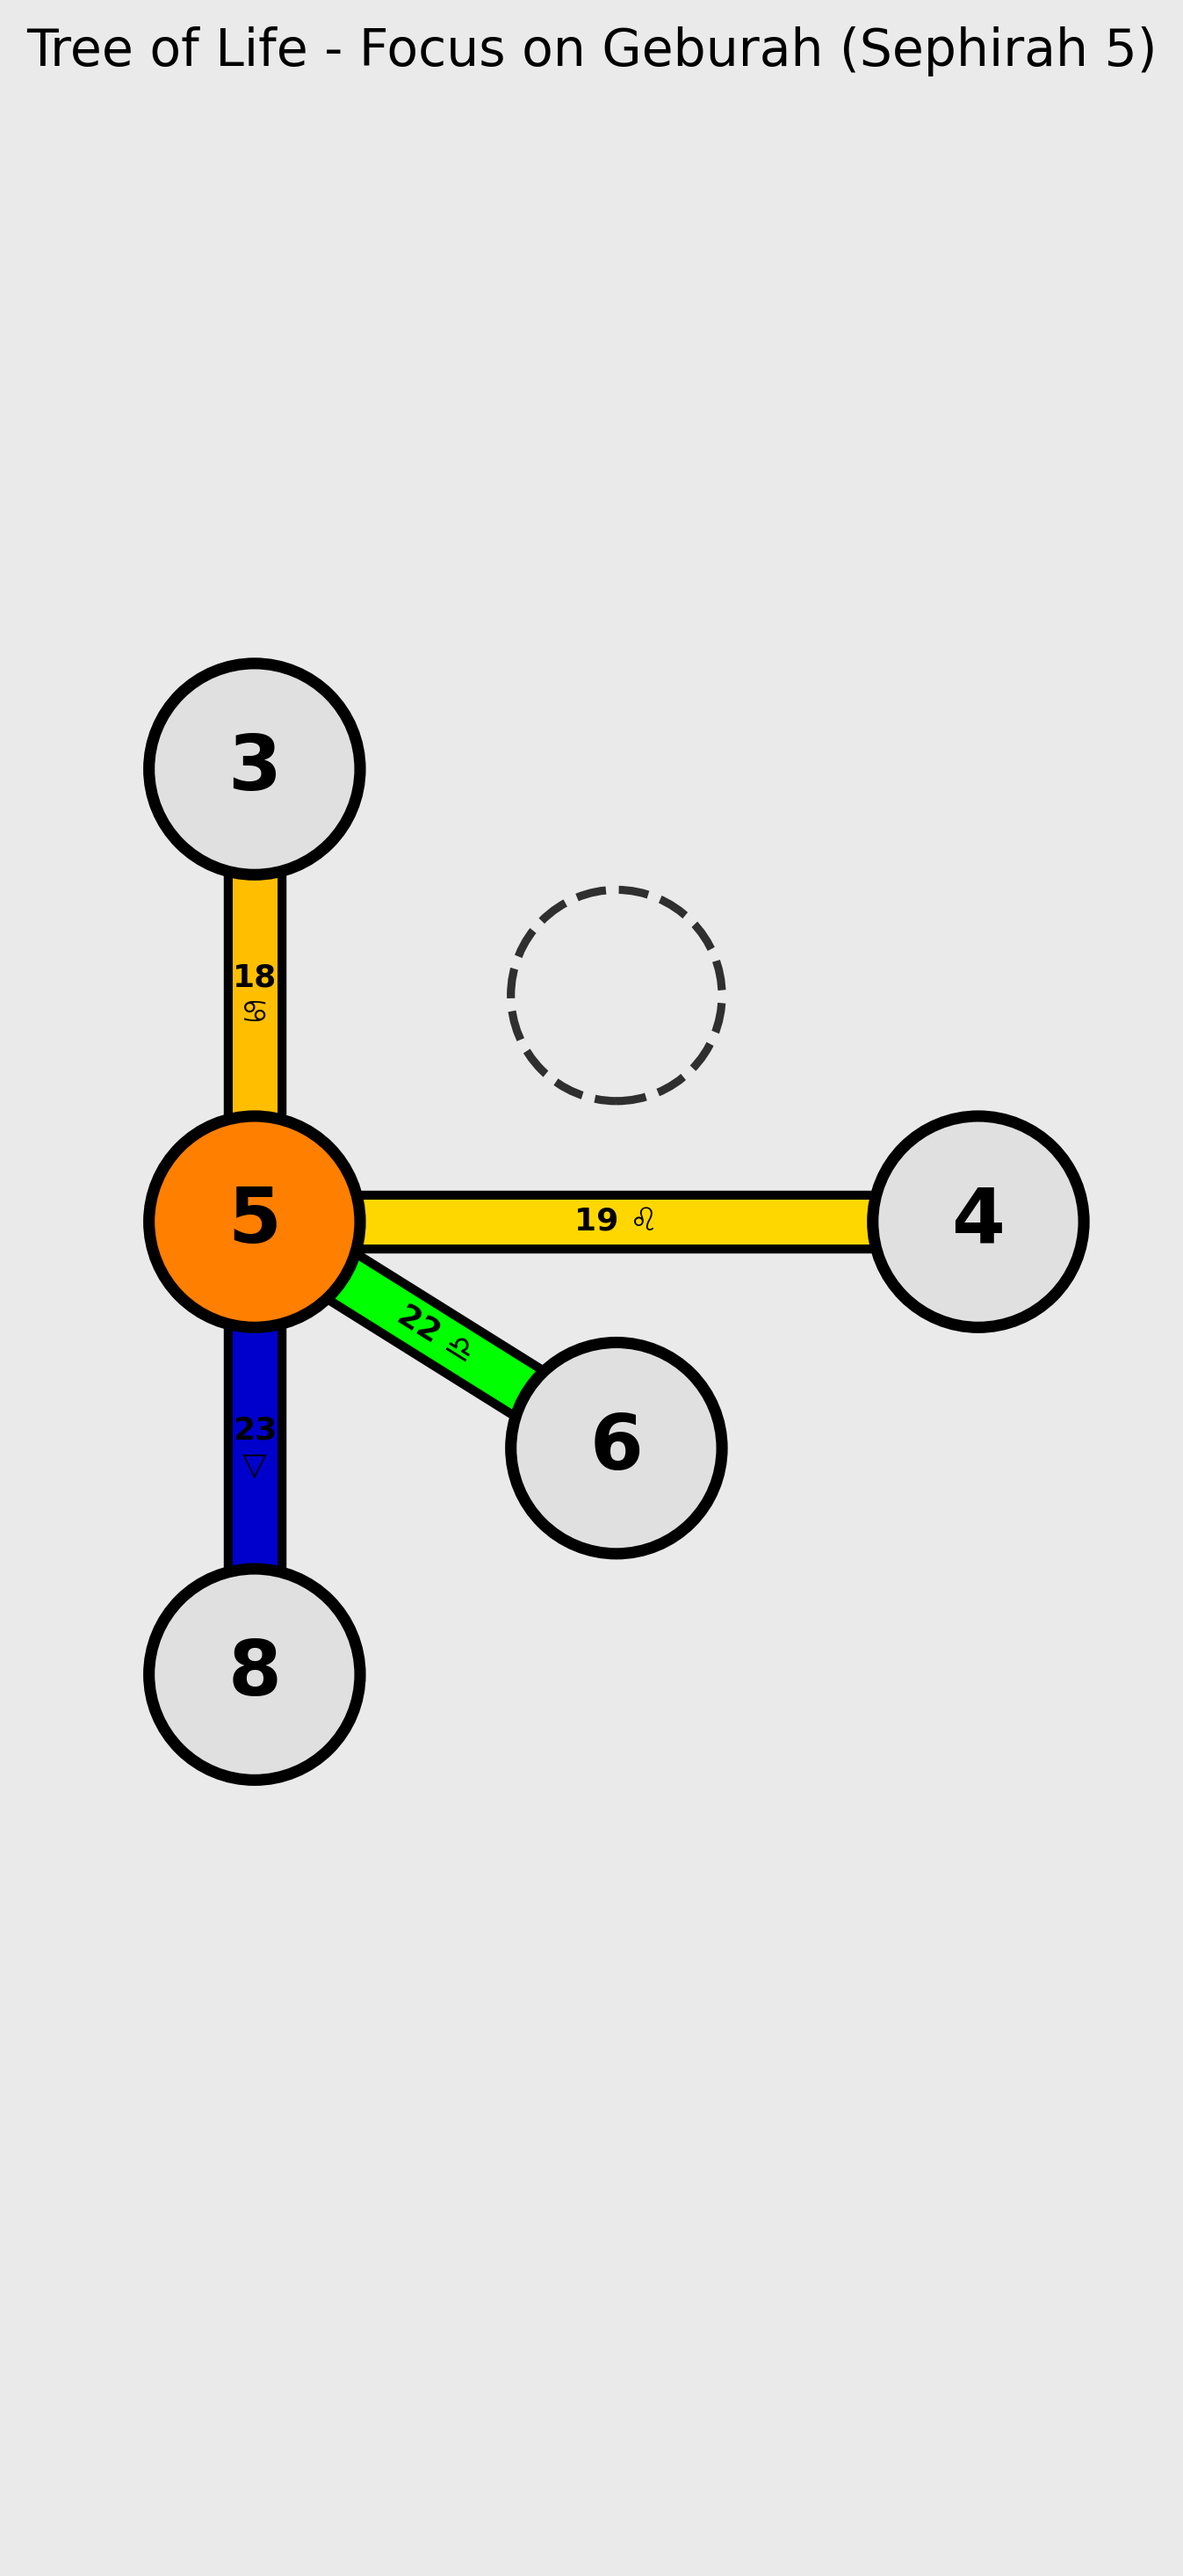
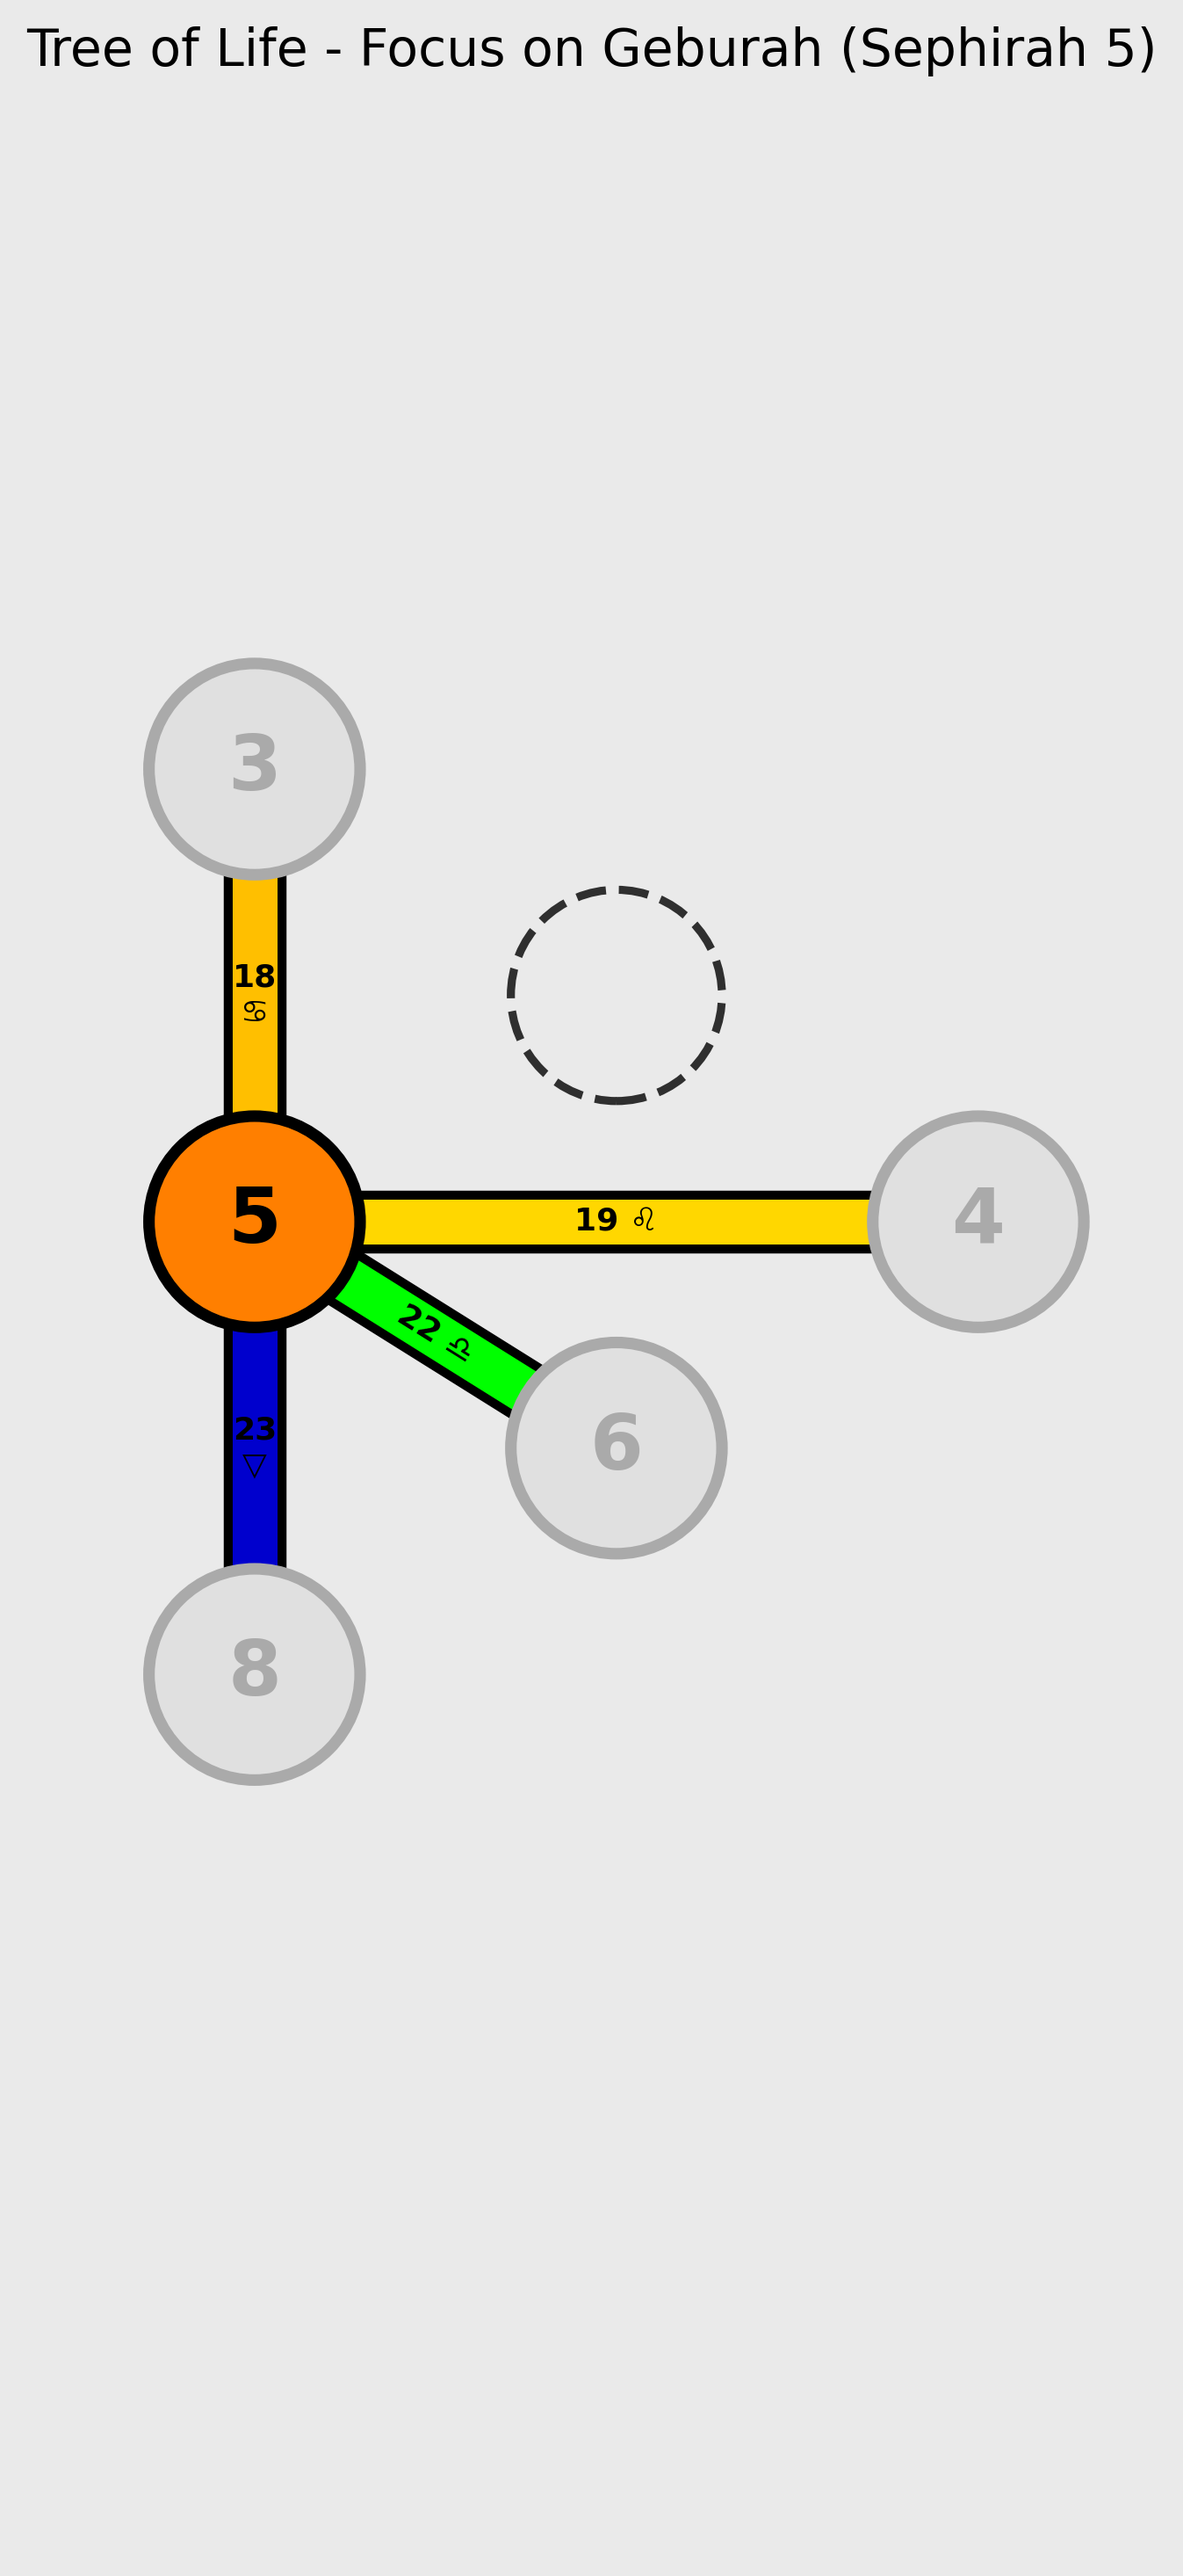
style: improve visual contrast for non-focused sephiroth in Tree of Life

diff --git a/TreeOfLife.py b/TreeOfLife.py
@@ -535,16 +535,20 @@ class TreeOfLife:
                 # Gray out connected sephiroth without reducing opacity
                 alpha = 1.0  # Changed from 0.6 to make fully opaque
                 circle_face_color = '#E0E0E0'  # Slightly darker gray for non-focused sephiroth
+                circle_edge_color_override = '#AAAAAA'  # Border is slightly darker gray
+                text_color = '#AAAAAA'  # Match number to darker gray
             else:
                 alpha = 1.0
                 circle_face_color = color  # Use the sephirah's color
+                circle_edge_color_override = circle_edge_color  # Use default border color
+                text_color = 'black'  # Use default text color
 
             # Draw the circle
             circle = patches.Circle(
                 (x, y),
                 self.circle_radius,
                 facecolor=circle_face_color,
-                edgecolor=circle_edge_color,
+                edgecolor=circle_edge_color_override,
                 linewidth=circle_line_width,
                 alpha=alpha,
                 zorder=zorder_circles
@@ -562,7 +566,7 @@ class TreeOfLife:
             ax.text(
                 x, y,
                 str(seph_num),
-                color='black',
+                color=text_color,
                 fontsize=12 * self.sphere_scale_factor,
                 ha='center',
                 va='center',
